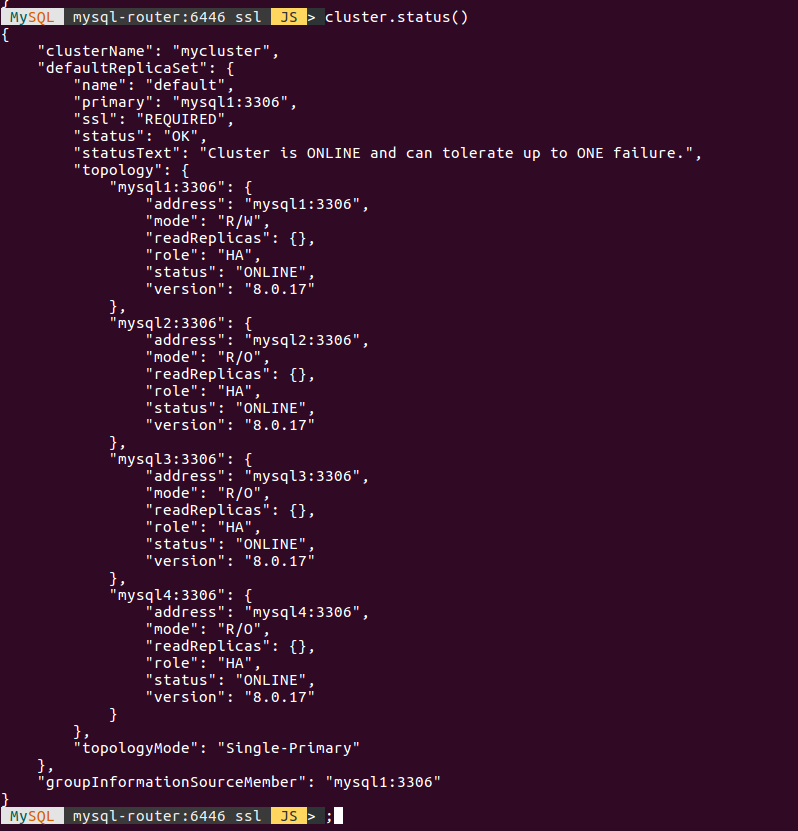
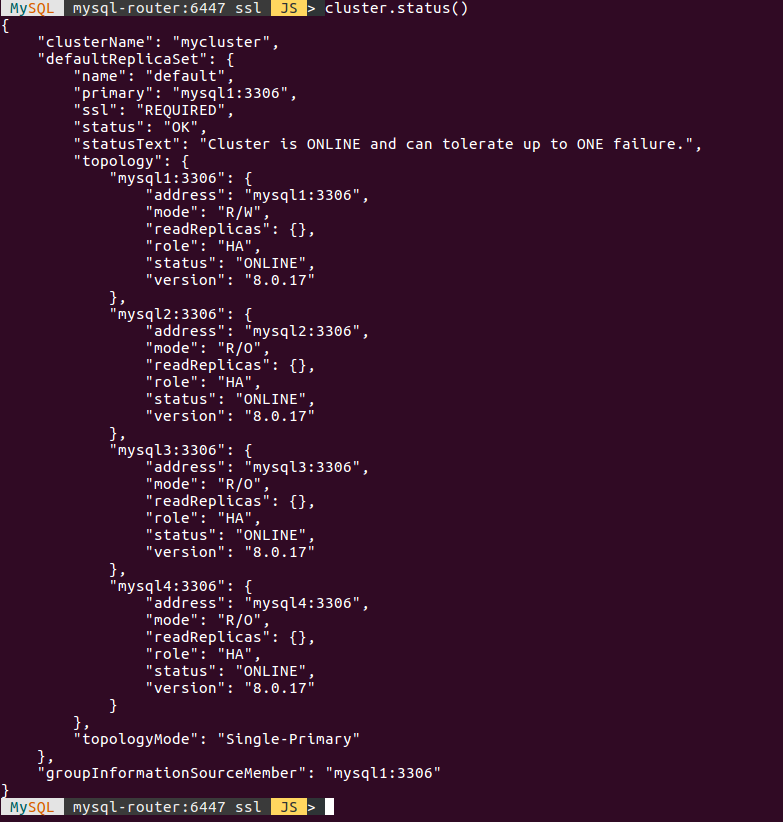
README update and figure1 change

Changed region(s): [[0.0, 0.0, 0.8889, 0.8516], [0.0, 0.8516, 0.5517, 1.0]]

diff --git a/README.md b/README.md
@@ -96,7 +96,7 @@ mysql: [Warning] Using a password on the command line interface can be insecure.
 
 ## 2. Configure the MySQL servers to join InnoDB Cluster
 
-Run the command below to access the MySQL Shell of **mysql1** container.
+Run the command below to access the MySQL Shell of container **mysql1**.
 ```
 $ docker exec -it mysql1 mysqlsh -uroot -proot -S/var/run/mysqld/mysqlx.sock
 ```
@@ -169,7 +169,7 @@ NOTE: Please use the dba.configureInstance() command to repair these issues.
 ```
 You can see that **mysql1** needs to have some of its configuration changed.
 
-It not nocessary to run the commands below, but if you want to try, the same can be done and observed when running:
+It's not necessary to run the commands below, but if you want to try, the same can be done and observed when running:
 ```
 dba.checkInstanceConfiguration("inno@mysql2:3306")
 ```
@@ -486,7 +486,7 @@ Output:
 }
 ```
 
-Our InnoDb Cluster with four nodes is up and running.
+Our InnoDB Cluster with four nodes is up and running.
 
 Type `\exit` and press ENTER to leave the Shell and go to the OS terminal.
 
@@ -496,7 +496,7 @@ Next section we will bootstrap a MySQL Router which will help load balance the t
 
 We are going to launch a new [MySQL Router Docker image](https://hub.docker.com/r/mysql/mysql-router) as a container:
 ```
-docker run -d --name mysql-router --net=innodbnet \
+$ docker run -d --name mysql-router --net=innodbnet \
    -e MYSQL_HOST=mysql1 \
    -e MYSQL_PORT=3306 \
    -e MYSQL_USER=inno \
@@ -585,8 +585,8 @@ logging facility initialized, switching logging to loggers specified in configur
 ```
 That's it! Our InnoDB Cluster has now a MySQL Router too.
 
-Pay attention to this information, it will be used in the next section:
-```
+Pay attention to the information below. It will be used in the next section:
+```console
 ## MySQL Classic protocol
 
 - Read/Write Connections: localhost:6446
@@ -694,7 +694,7 @@ It seems to be working.. :+1:
 
 Let's connect again to the MySQL Shell through our client container using the router's host and port:
 ```
-$ docker exec -it mysql-client mysqlsh -h mysql-router -P 6446 -uinno -pinno
+$ docker exec -it mysql-client mysqlsh -h mysql-router -P 6447 -uinno -pinno
 ```
 Get the cluster we create before:
 ```
@@ -706,7 +706,191 @@ cluster.status()
 ```
 ![alt text](https://github.com/wagnerjfr/mysql-innodb-cluster/blob/master/img/figure1.png)
 
+Don not close this terminal. We will try the cluster's fault tolerance in the next section.
+
 ## 7. Fault tolerance
+
+We know from the figure of the last section that **mysql1** is the leader of the cluster.
+
+Let's stop the container and check what will happen to the cluster.
+
+Open a separate OS terminal and run:
+```
+$ docker stop mysql1
+```
+
+Go back to your MySQL Shell terminal and re-run:
+```
+cluster.status()
+```
+
+The cluster is still up and running, but we have a new "master", **mysql2**:
+```console
+ MySQL  mysql-router:6447 ssl  JS > cluster.status();
+{
+    "clusterName": "mycluster", 
+    "defaultReplicaSet": {
+        "name": "default", 
+        "primary": "mysql2:3306", 
+        "ssl": "REQUIRED", 
+        "status": "OK_PARTIAL", 
+        "statusText": "Cluster is ONLINE and can tolerate up to ONE failure. 1 member is not active", 
+        "topology": {
+            "mysql1:3306": {
+                "address": "mysql1:3306", 
+                "mode": "n/a", 
+                "readReplicas": {}, 
+                "role": "HA", 
+                "shellConnectError": "MySQL Error 2005 (HY000): Unknown MySQL server host 'mysql1' (0)", 
+                "status": "(MISSING)"
+            }, 
+            "mysql2:3306": {
+                "address": "mysql2:3306", 
+                "mode": "R/W", 
+                "readReplicas": {}, 
+                "role": "HA", 
+                "status": "ONLINE", 
+                "version": "8.0.17"
+            }, 
+            "mysql3:3306": {
+                "address": "mysql3:3306", 
+                "mode": "R/O", 
+                "readReplicas": {}, 
+                "role": "HA", 
+                "status": "ONLINE", 
+                "version": "8.0.17"
+            }, 
+            "mysql4:3306": {
+                "address": "mysql4:3306", 
+                "mode": "R/O", 
+                "readReplicas": {}, 
+                "role": "HA", 
+                "status": "ONLINE", 
+                "version": "8.0.17"
+            }
+        }, 
+        "topologyMode": "Single-Primary"
+    }, 
+    "groupInformationSourceMember": "mysql2:3306"
+}
+```
+
+Go back to the OS terminal and start **mysql1**:
+```
+$ docker start mysql1
+```
+
+Back to MySQL Shell terminal, run `cluster.status()`:
+
+If you are fast enough you notice that **mysql1** will start "recovering" in the cluster:
+```console
+ MySQL  mysql-router:6447 ssl  JS > cluster.status();
+{
+    "clusterName": "mycluster", 
+    "defaultReplicaSet": {
+        "name": "default", 
+        "primary": "mysql2:3306", 
+        "ssl": "REQUIRED", 
+        "status": "OK", 
+        "statusText": "Cluster is ONLINE and can tolerate up to ONE failure.", 
+        "topology": {
+            "mysql1:3306": {
+                "address": "mysql1:3306", 
+                "mode": "R/O", 
+                "readReplicas": {}, 
+                "recoveryStatusText": "Recovery in progress", 
+                "role": "HA", 
+                "status": "RECOVERING", 
+                "version": "8.0.17"
+            }, 
+            "mysql2:3306": {
+                "address": "mysql2:3306", 
+                "mode": "R/W", 
+                "readReplicas": {}, 
+                "role": "HA", 
+                "status": "ONLINE", 
+                "version": "8.0.17"
+            }, 
+            "mysql3:3306": {
+                "address": "mysql3:3306", 
+                "mode": "R/O", 
+                "readReplicas": {}, 
+                "role": "HA", 
+                "status": "ONLINE", 
+                "version": "8.0.17"
+            }, 
+            "mysql4:3306": {
+                "address": "mysql4:3306", 
+                "mode": "R/O", 
+                "readReplicas": {}, 
+                "role": "HA", 
+                "status": "ONLINE", 
+                "version": "8.0.17"
+            }
+        }, 
+        "topologyMode": "Single-Primary"
+    }, 
+    "groupInformationSourceMember": "mysql2:3306"
+}
+```
+And afer some seconds, it's back `ONLINE` again, but as a "slave" in "R/O" mode.
+```console
+ MySQL  mysql-router:6447 ssl  JS > cluster.status();
+{
+    "clusterName": "mycluster", 
+    "defaultReplicaSet": {
+        "name": "default", 
+        "primary": "mysql2:3306", 
+        "ssl": "REQUIRED", 
+        "status": "OK", 
+        "statusText": "Cluster is ONLINE and can tolerate up to ONE failure.", 
+        "topology": {
+            "mysql1:3306": {
+                "address": "mysql1:3306", 
+                "mode": "R/O", 
+                "readReplicas": {}, 
+                "role": "HA", 
+                "status": "ONLINE", 
+                "version": "8.0.17"
+            }, 
+            "mysql2:3306": {
+                "address": "mysql2:3306", 
+                "mode": "R/W", 
+                "readReplicas": {}, 
+                "role": "HA", 
+                "status": "ONLINE", 
+                "version": "8.0.17"
+            }, 
+            "mysql3:3306": {
+                "address": "mysql3:3306", 
+                "mode": "R/O", 
+                "readReplicas": {}, 
+                "role": "HA", 
+                "status": "ONLINE", 
+                "version": "8.0.17"
+            }, 
+            "mysql4:3306": {
+                "address": "mysql4:3306", 
+                "mode": "R/O", 
+                "readReplicas": {}, 
+                "role": "HA", 
+                "status": "ONLINE", 
+                "version": "8.0.17"
+            }
+        }, 
+        "topologyMode": "Single-Primary"
+    }, 
+    "groupInformationSourceMember": "mysql2:3306"
+}
+```
 
 ## 8. Clean up
 
+Stop the running containers:
+```
+docker stop mysql1 mysql2 mysql3 mysql4 mysql-router mysql-client
+```
+Remove the stopped containers:
+```
+docker rm mysql1 mysql2 mysql3 mysql4 mysql-router mysql-client
+```
